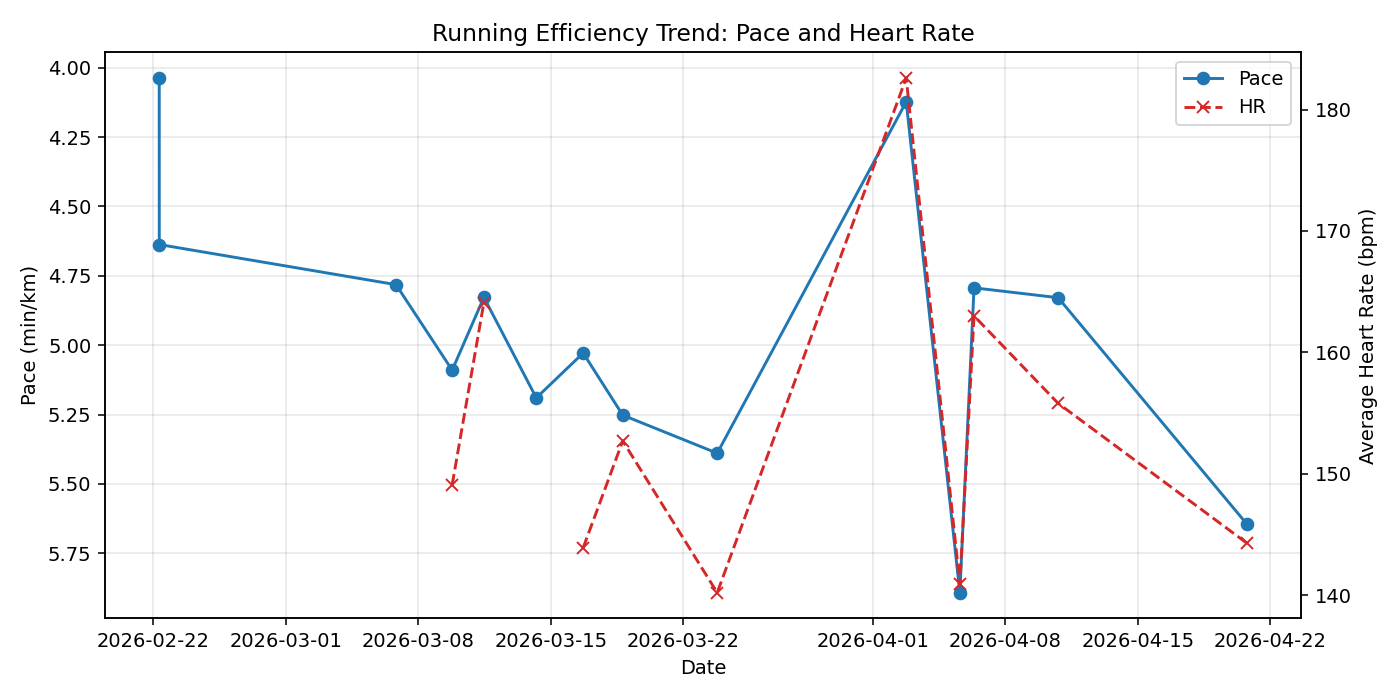
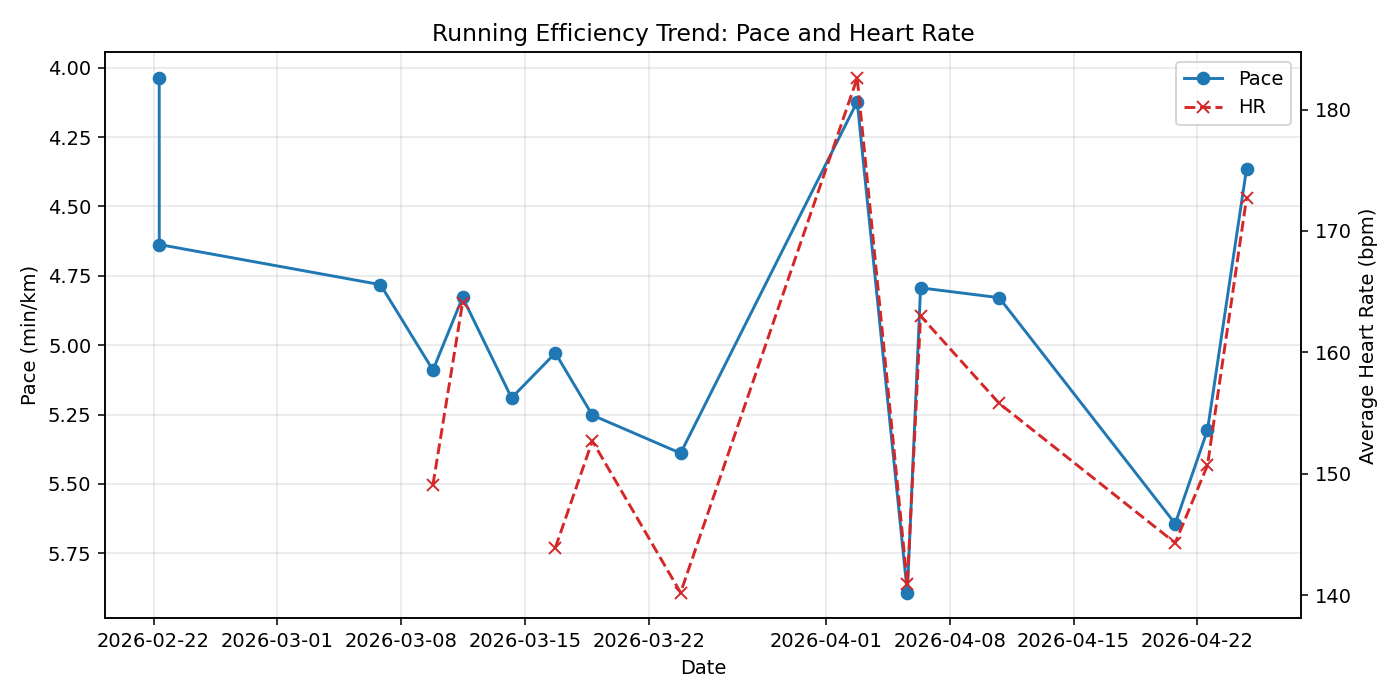
chore: update dashboard site (2026-04-26 18:09)

diff --git a/docs/data/report.md b/docs/data/report.md
@@ -1,29 +1,29 @@
 # Plan-aware Hybrid Marathon Analysis
-Window: 2026-02-01 -> 2026-04-22
+Window: 2026-02-01 -> 2026-04-26
 
 ## This Week
-- Plan week: 3.0
-- Phase: Base con fútbol
+- Plan week: 4.0
+- Phase: Base con fútbol - descarga
 - Planned sessions: 3
-- Completed sessions: 0
-- Running km vs target: 0.0 / 38.0
-- Long run status: pending
+- Completed sessions: 3
+- Running km vs target: 37.4 / 28.0
+- Long run status: done
 - Football status: estimated
-- Plan compliance score: 0.0
+- Plan compliance score: 100.0
 
 ## Running Progression
-- Rolling 7d running km: 11.229
-- Rolling 28d running km: 57.2358
-- Run frequency last 7/14/28: 1/2/5
-- Easy pace trend (negative faster): 0.1399755804545392
-- Pace/HR efficiency trend: -0.00035327571526890103
+- Rolling 7d running km: 37.441
+- Rolling 28d running km: 83.4478
+- Run frequency last 7/14/28: 3/3/7
+- Easy pace trend (negative faster): 0.11674986680650262
+- Pace/HR efficiency trend: -0.00019443082586923644
 
 ## Durability
-- Consecutive weeks with 2+ runs: 0
-- Consecutive weeks with long run completed: 0
-- Long-run progression slope: 0.9904195804195803
-- Planned volume absorbed: 98.69333333333334
-- Planned long runs completed: 33.333333333333336
+- Consecutive weeks with 2+ runs: 1
+- Consecutive weeks with long run completed: 1
+- Long-run progression slope: 1.3048972527472527
+- Planned volume absorbed: 106.23707692307694
+- Planned long runs completed: 50.0
 - Weeks football likely forced downscale: 2
 
 ## Football Interference
@@ -33,31 +33,31 @@ Window: 2026-02-01 -> 2026-04-22
 - 72h pace delta: 0.15134034673846955
 
 ## Predictions
-- Next-week volume completion probability: 0.54
-- Next long-run completion probability: 0.27
-- Next quality completion probability: 0.52
-- Downscale probability: 0.89
+- Next-week volume completion probability: 0.62
+- Next long-run completion probability: 0.41
+- Next quality completion probability: 0.59
+- Downscale probability: 0.69
 
 ## Readiness
 - Aerobic fitness: declining
-- Durability: building
-- Fatigue: low
+- Durability: strong
+- Fatigue: medium
 - Marathon readiness: strong
 
 ## Marathon Estimate
-- Fitness-based: 03:54:23
-- Durability-adjusted: 04:15:17
-- Realistic range: 03:35:56 to 04:17:47
+- Fitness-based: 03:40:28
+- Durability-adjusted: 03:51:23
+- Realistic range: 03:11:55 to 04:14:23
 - Confidence score: 80.0/100
 
 ## Pace Recommendations
-- Easy: 5.09-5.44 min/km
-- Steady: 4.74-4.94 min/km
-- Marathon pace: 5.50-5.65 min/km
-- Threshold: 5.20-5.35 min/km
+- Easy: 5.22-5.57 min/km
+- Steady: 4.87-5.07 min/km
+- Marathon pace: 5.26-5.41 min/km
+- Threshold: 4.96-5.11 min/km
 
 ## Confidence Notes
-- Confidence reduced because football actuals are missing for the last 24 days.
+- Confidence reduced because football actuals are missing for the last 28 days.
 
 ## Files generated
 - report.md
